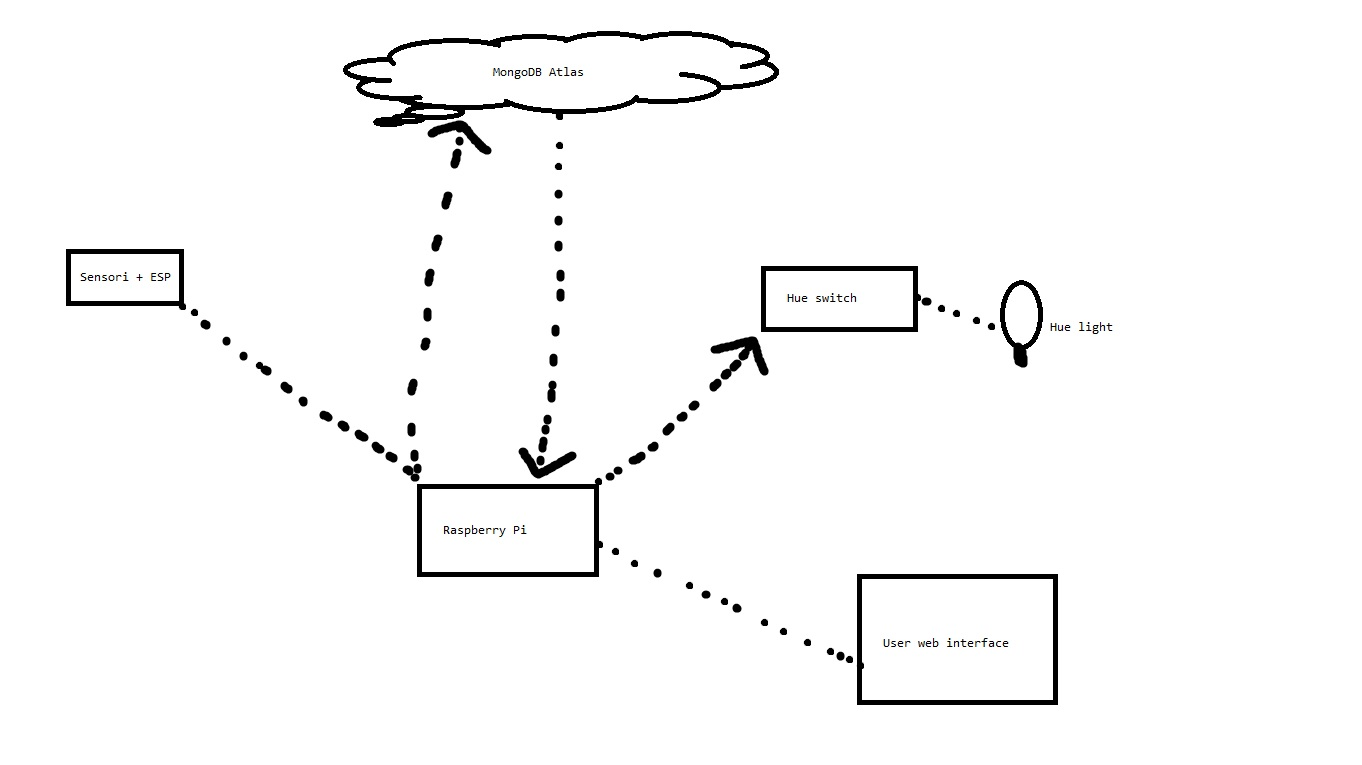
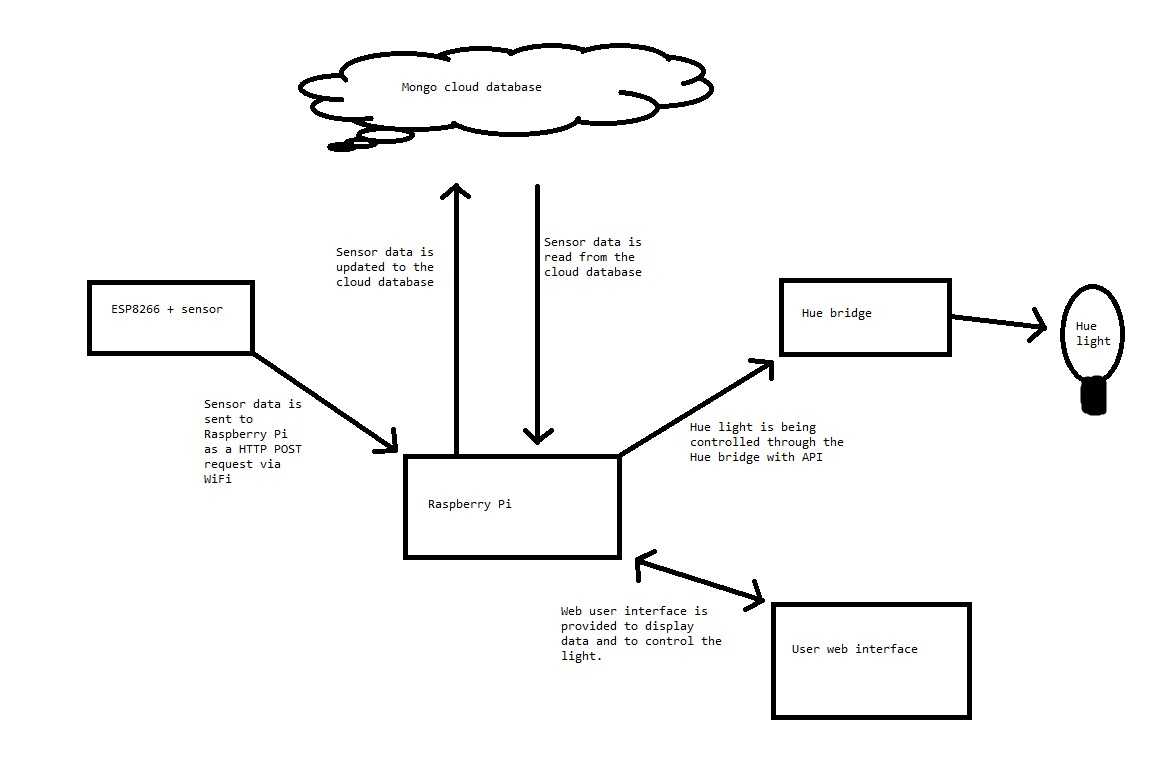
fixing diagram and readme

diff --git a/README.md b/README.md
@@ -11,3 +11,13 @@ Hardware used:
     -Philips Hue light + bridge
 
 
+Raspberry Pi works as a central hub in this system. A Node.js server is running on the Pi providing REST API, and also a web interface is hosted by the Pi.
+
+The ESP8266 with a sensor attached feeds data to the Pi in a JSON format as a HTTP POST request.
+The sensor data is saved to a Mongo database operating in a cloud.
+
+Philips Hue light is controlled through Hue bridge with API calls.
+
+
+[[https://github.com/Kimsi1/Iot_home_automation/blob/master/Iot%20home%20automation%20diagram.jpg|alt=diagram]]
+
